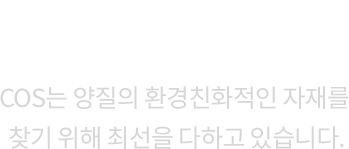
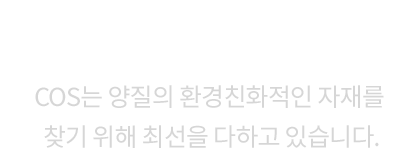
위치 수정 및 오타 수정

diff --git a/ui/scroll-y/cos.html b/ui/scroll-y/cos.html
@@ -64,7 +64,7 @@
          <div class="sec03_txtbox">
             <div><img src="cos_img/txt/sec03/sec03_txt03.png" alt=""></div>
             <div class="sec03_txt03"><img src="cos_img/txt/sec03/sec03_txt04.png" alt=""></div>
-            <div><img src="cos_img/txt/sec03/sec03_txt05.png" alt=""></div>
+            <div class="sec03_txt04"><img src="cos_img/txt/sec03/sec03_txt05.png" alt=""></div>
         </div>
 
 

diff --git a/ui/scroll-y/css/cos.css b/ui/scroll-y/css/cos.css
@@ -182,7 +182,11 @@
 }
 
 #section03 .sec03_txtbox .sec03_txt03{
-    margin: 63px 60px 0 0;
+    margin: 63px 25px 0 0;
+}
+
+#section03 .sec03_txtbox .sec03_txt04{
+    margin: 0 -35px 0 0;
 }
 
 
